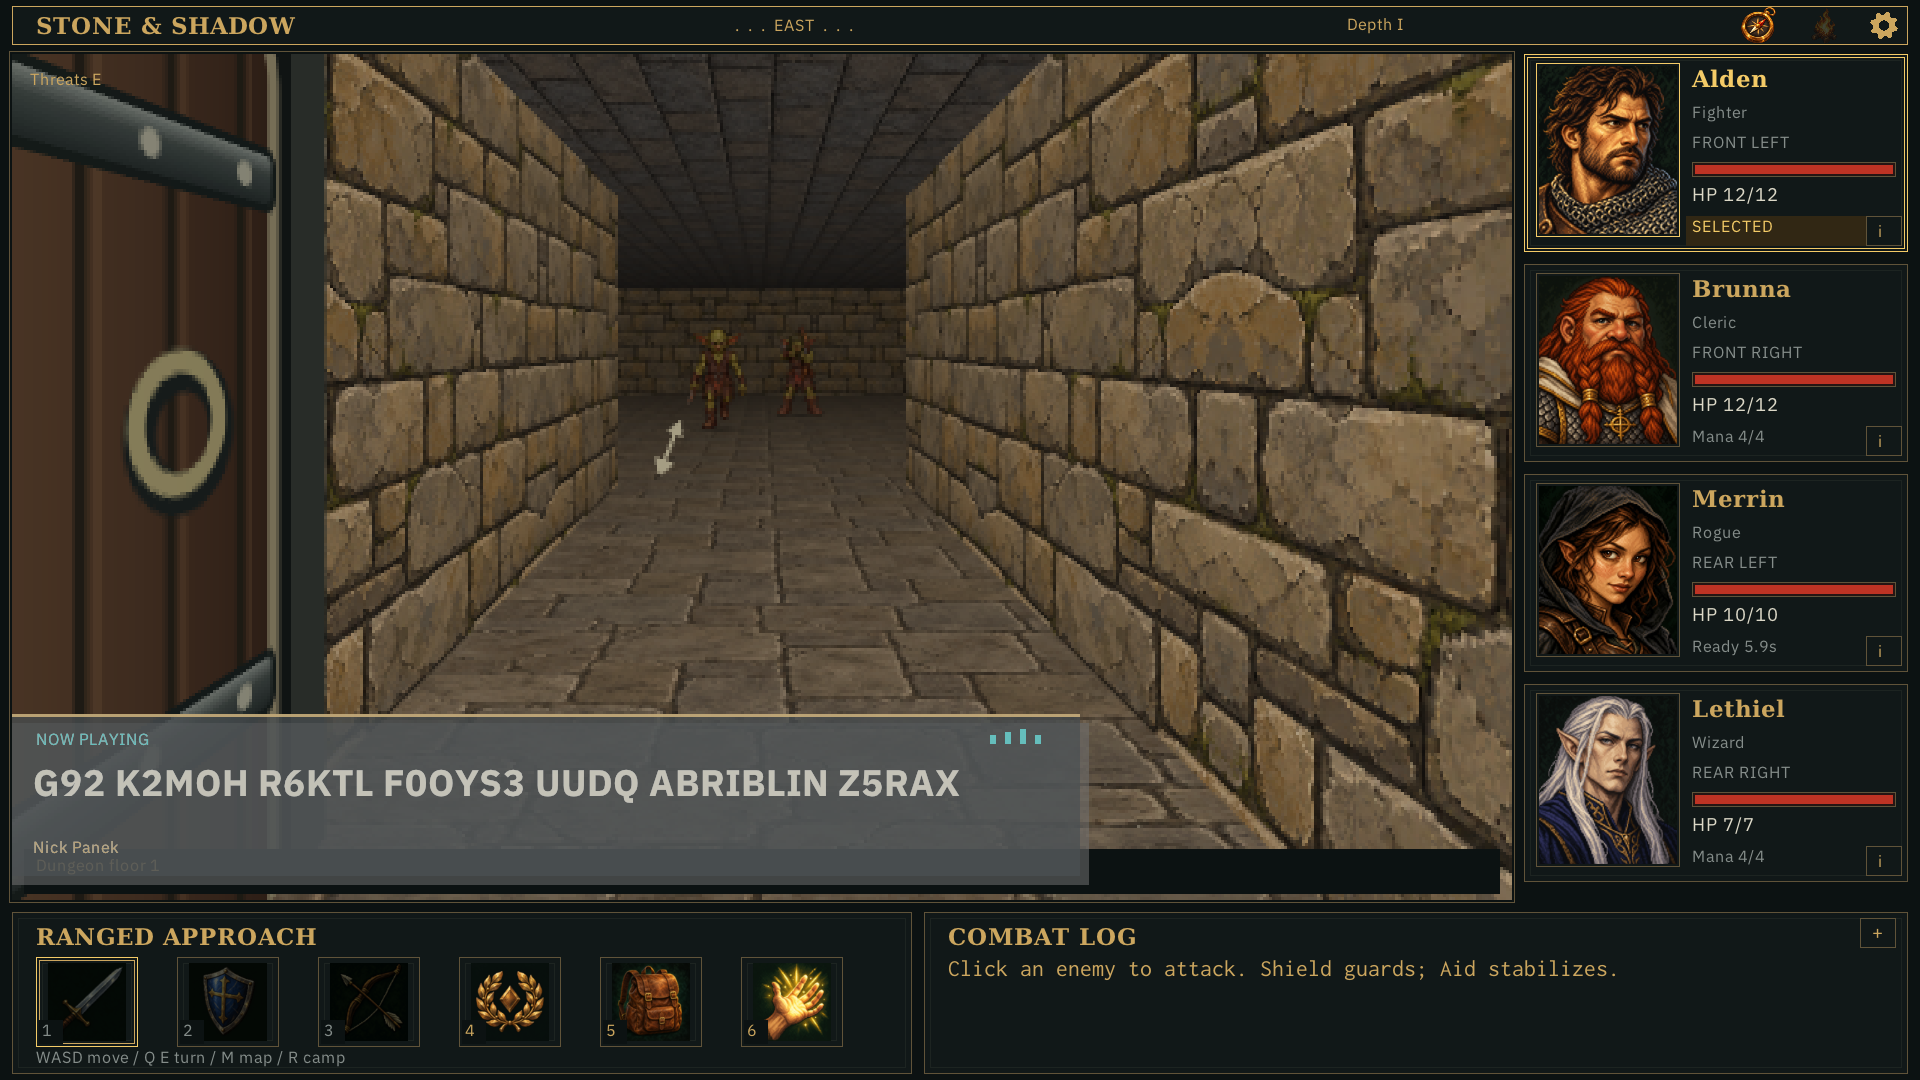
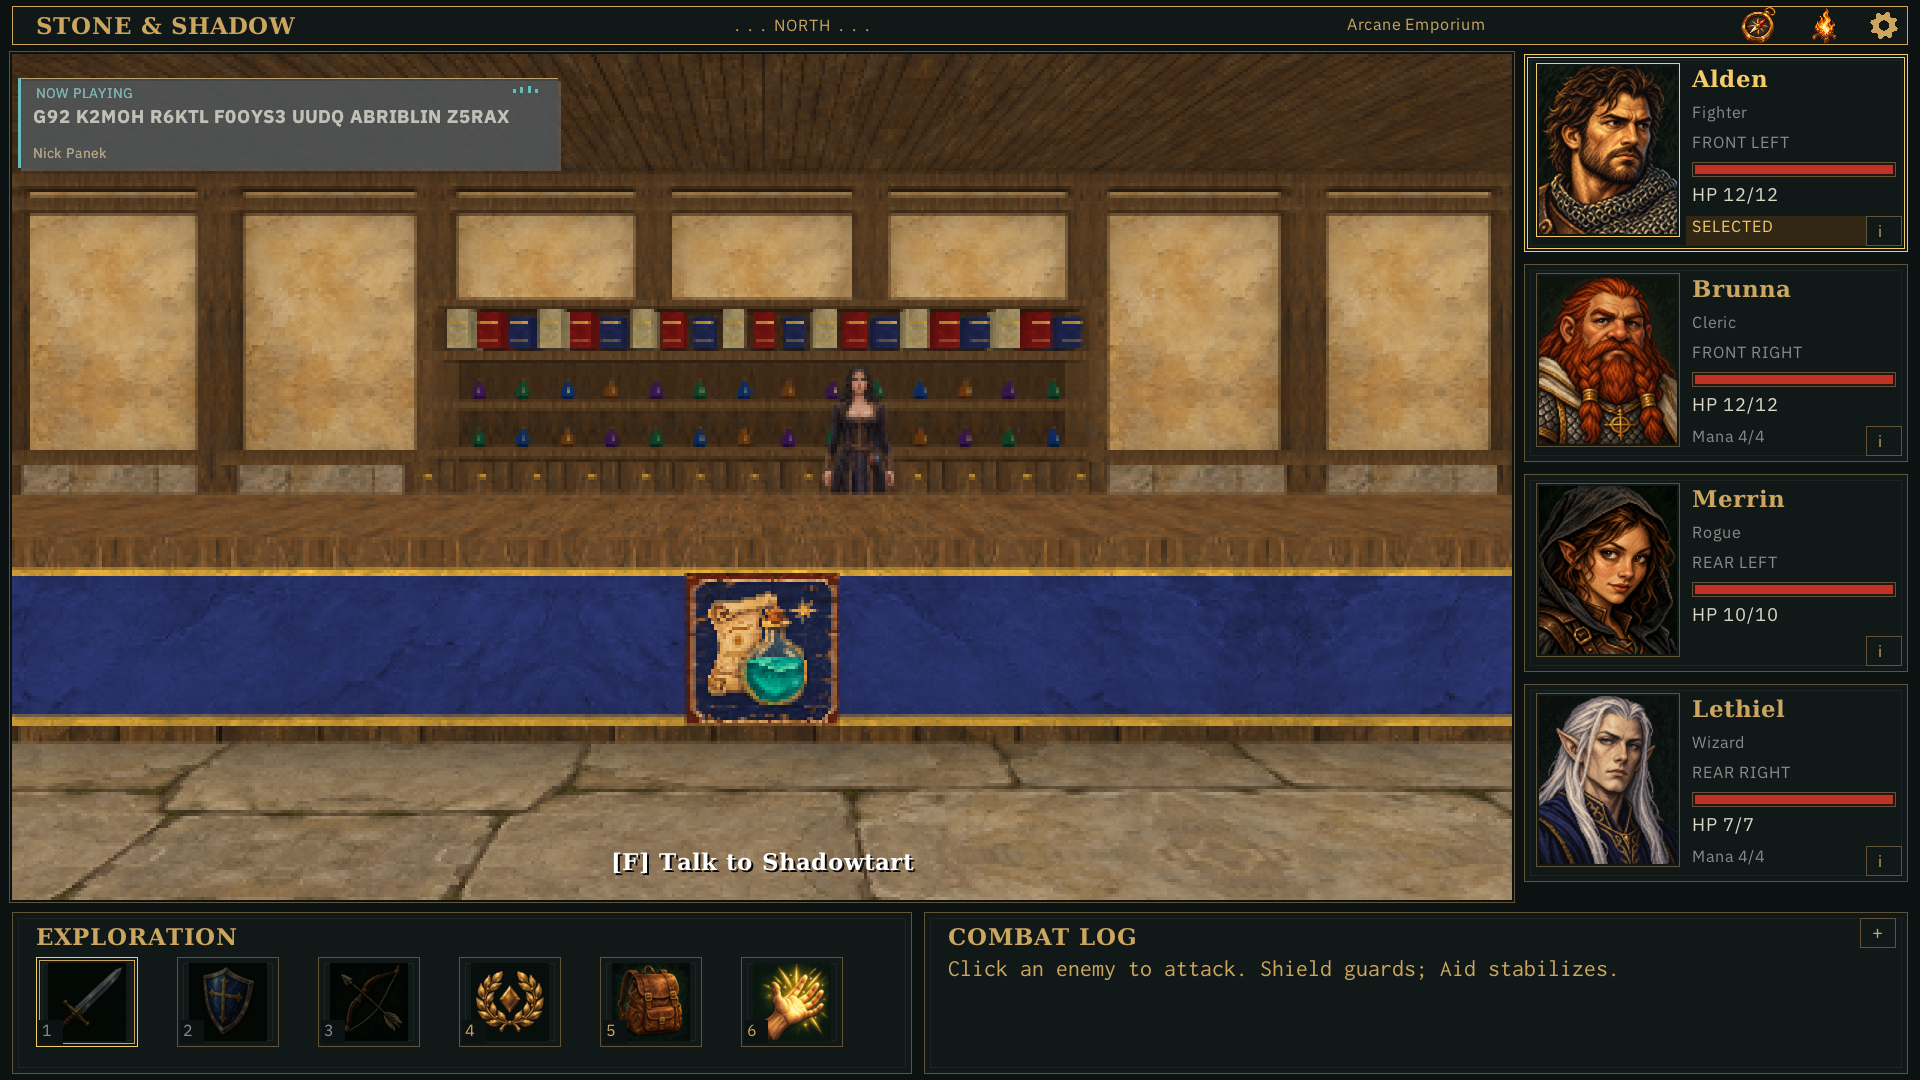
music

diff --git a/src/ui/music_banner.cpp b/src/ui/music_banner.cpp
@@ -8,29 +8,34 @@ void drawMusicBanner(const MusicBanner& banner, const UiFonts& fonts) {
     if (motion.alpha <= 0)
         return;
     const HudPainter p(&fonts, nullptr);
-    const float height = banner.secondLine[0] ? 72.f : 54.f;
-    const float x = 12 + motion.offset, y = 292 - height;
+    constexpr float width = 180, inset = 6, textWidth = 168, edge = 1;
+    const float height = banner.secondLine[0] ? 39.f : 30.f;
+    const float x = viewX + 8 + motion.offset * .5f, y = viewY + 8;
     const auto color = [&](Color c) {
         c.a = static_cast<unsigned char>(c.a * motion.alpha);
         return c;
     };
     BeginScissorMode(viewX * HudPainter::scale, viewY * HudPainter::scale, viewWidth * HudPainter::scale,
                      viewHeight * HudPainter::scale);
-    p.rectangle({x + 3, y + 3, 360, height}, color({0, 0, 0, 130}));
-    p.rectangle({x, y, 360, height}, color({13, 20, 23, 238}));
-    p.rectangle({x, y, 3, height}, color(hudInk::teal));
-    p.rectangle({x + 3, y, 357, 1}, color(hudInk::gold));
-    p.text("NOW PLAYING", x + 12, y + 5, color(hudInk::teal), UiTextStyle::Small);
+    p.rectangle({x + edge, y + edge, width, height}, color({0, 0, 0, 130}));
+    p.rectangle({x, y, width, height}, color({13, 20, 23, 238}));
+    p.rectangle({x, y, edge, height}, color(hudInk::teal));
+    p.rectangle({x + edge, y, width - edge, 1 / HudPainter::scale}, color(hudInk::gold));
+    // Size-specific atlases draw at native size; UiFonts snaps text after motion.
+    p.text("NOW PLAYING", x + inset, y + 2, color(hudInk::teal), UiTextStyle::MusicCaption);
     char first[96], second[96];
     musicBannerLetters(first, banner.title, banner.age, banner.revision);
     musicBannerLetters(second, banner.secondLine, banner.age, banner.revision + 37);
-    p.clipped(first, int(x + 12), y + 15, 335, color(hudInk::text), UiTextStyle::Control);
+    p.clipped(first, int(x + inset), y + 9, int(textWidth), color(hudInk::text), UiTextStyle::MusicTitle);
     if (second[0])
-        p.clipped(second, int(x + 12), y + 32, 335, color(hudInk::text), UiTextStyle::Control);
-    p.clipped(banner.artist, int(x + 12), y + height - 13, 335, color(hudInk::gold), UiTextStyle::Small);
+        p.clipped(second, int(x + inset), y + 18, int(textWidth), color(hudInk::text),
+                  UiTextStyle::MusicTitle);
+    p.clipped(banner.artist, int(x + inset), y + height - 8, int(textWidth), color(hudInk::gold),
+              UiTextStyle::MusicCaption);
     // Small geometric rhythm marks, no flashing or audio-reactive allocations.
     for (unsigned i = 0; i < 4; ++i)
-        p.rectangle({x + 330 + i * 5, y + 7 - float(i % 3), 2, 3 + float(i % 3)}, color(hudInk::teal));
+        p.rectangle({x + (330 + i * 5) * .5f, y + (7 - float(i % 3)) * .5f, 1, (3 + float(i % 3)) * .5f},
+                    color(hudInk::teal));
     EndScissorMode();
 }
 } // namespace blobber

diff --git a/tools/capture_music_banner.cpp b/tools/capture_music_banner.cpp
@@ -13,16 +13,20 @@ int main(int argc, char** argv) {
     const auto target = LoadRenderTexture(1920, 1080);
     const std::filesystem::path output(argv[3]);
     std::filesystem::create_directories(output);
-    const float times[]{.12f, .65f, 2.f, 5.8f, 2.f};
-    const char* names[]{"entry", "reveal", "settled", "exit", "two-lines"};
-    for (unsigned i = 0; i < 5; ++i) {
+    const float times[]{.12f, .65f, 2.f, 5.8f, 2.f, 2.f};
+    const char* names[]{"entry", "reveal", "settled", "exit", "two-lines", "long-title"};
+    for (unsigned i = 0; i < 6; ++i) {
         BeginTextureMode(target);
         ClearBackground(BLACK);
         DrawTexturePro(background, {0, 0, float(background.width), float(background.height)},
                        {0, 0, 1920, 1080}, {0, 0}, 0, WHITE);
-        blobber::drawMusicBanner({i == 4 ? "Epic Hair Metal Synth Rock Instrumental"
-                                         : "SVT Speed Metal Trance With Chiptune Vibes",
-                                  i == 4 ? "High Energy Motivation" : "", "Nick Panek", 7, times[i], true},
+        blobber::drawMusicBanner({i == 5   ? "WWWWWWWWWWWWWWWWWWWWWWWWWWWWWWWWWWWWWWWWWW"
+                                  : i == 4 ? "Epic Hair Metal Synth Rock Instrumental"
+                                           : "SVT Speed Metal Trance With Chiptune Vibes",
+                                  i == 5 ? "A deliberately overlong second line for the title clipping check"
+                                  : i == 4 ? "High Energy Motivation"
+                                           : "",
+                                  "Nick Panek", 7, times[i], true},
                                  fonts);
         EndTextureMode();
         auto image = LoadImageFromTexture(target.texture);

diff --git a/src/ui/fonts.cpp b/src/ui/fonts.cpp
@@ -32,10 +32,13 @@ UiFonts::UiFonts(const std::filesystem::path& directory)
     : label_(directory / "IBMPlexSans-Regular.ttf", 24), small_(directory / "IBMPlexSans-Regular.ttf", 21),
       heading_(directory / "IBMPlexSans-Bold.ttf", 27), log_(directory / "Inconsolata.otf", 24),
       display_(directory / "DejaVuSerif-Bold.ttf", 27), control_(directory / "IBMPlexSans-Bold.ttf", 48),
-      dialogue_(directory / "IBMPlexSans-Regular.ttf", 28) {}
+      dialogue_(directory / "IBMPlexSans-Regular.ttf", 28),
+      musicTitle_(directory / "IBMPlexSans-Bold.ttf", 24),
+      musicCaption_(directory / "IBMPlexSans-Regular.ttf", 18) {}
 std::size_t UiFonts::gpuBytes() const noexcept {
     std::size_t n = 0;
-    for (const auto* f : {&label_, &small_, &heading_, &log_, &display_, &control_, &dialogue_}) {
+    for (const auto* f : {&label_, &small_, &heading_, &log_, &display_, &control_, &dialogue_, &musicTitle_,
+                          &musicCaption_}) {
         auto t = f->value.texture;
         for (int level = 0; level < t.mipmaps; ++level) {
             n += GetPixelDataSize(t.width, t.height, t.format);
@@ -61,6 +64,10 @@ const Font& UiFonts::font(UiTextStyle style) const {
         return heading_.value;
     case UiTextStyle::Log:
         return log_.value;
+    case UiTextStyle::MusicTitle:
+        return musicTitle_.value;
+    case UiTextStyle::MusicCaption:
+        return musicCaption_.value;
     }
     return label_.value;
 }

diff --git a/src/ui/fonts.hpp b/src/ui/fonts.hpp
@@ -3,7 +3,7 @@
 #include <filesystem>
 
 namespace blobber {
-enum class UiTextStyle { Label, Small, Heading, Log, Display, Control, Dialogue };
+enum class UiTextStyle { Label, Small, Heading, Log, Display, Control, Dialogue, MusicTitle, MusicCaption };
 // Fixed, size-specific atlases. Construct with a live window; destroy before it closes.
 // Coordinates/measurements use art units, but glyphs draw at native game-target resolution.
 class UiFonts {
@@ -27,6 +27,6 @@ class UiFonts {
         Font value{};
     };
     const Font& font(UiTextStyle style) const;
-    SizedFont label_, small_, heading_, log_, display_, control_, dialogue_;
+    SizedFont label_, small_, heading_, log_, display_, control_, dialogue_, musicTitle_, musicCaption_;
 };
 } // namespace blobber

diff --git a/src/ui/music_banner.hpp b/src/ui/music_banner.hpp
@@ -3,4 +3,4 @@
 #include "ui/fonts.hpp"
 namespace blobber {
 void drawMusicBanner(const MusicBanner&, const UiFonts&);
-}
+} // namespace blobber

diff --git a/docs/combat_music.md b/docs/combat_music.md
@@ -1,5 +1,44 @@
 # Combat music
 
+## Compact announcement — 2026-11-07
+
+Status: compact typography accepted by the user; requested top-left integration
+implemented and mechanically verified. Replaces the old renderer and preview API.
+Use a fixed 540 × 90 native pixel panel for one title line and 540 × 117 for two,
+24 pixels inside the viewport's top and left edges (native origin 36, 78).
+Keep the accepted internal padding, colors, shadow, six-second animation and
+half-distance horizontal slide. Panel width does not expand: prepared titles split
+into up to two lines and each rendered line uses measured ellipsis clipping within
+its 504-pixel text area, including while letters scramble. Artist text is clipped
+by the same policy; no text may cross the enclosing panel.
+
+UiFonts owns separate IBM Plex Sans bold 24 px and regular 18 px atlases for title
+and caption/artist respectively, loaded at preparation and included in RAII cleanup
+and GPU memory accounting. Draw only at loaded sizes, rounding final native text
+origins after animation/layout. No glyph or render-target scaling, new per-frame
+allocation, prepared-world invalidation or audio transport change. Announcements
+retain existing modal deferral and silence rules; menu music has no announcements.
+
+The capture tool now exercises the production renderer directly, including settled
+one/two-line titles, entry/reveal/exit and deliberately overlong text. Verify hidden
+OpenGL captures at native 1920 × 1080, assert changes stay inside the viewport and
+long text stays within the panel, build the game, and run the focused music check.
+Replace superseded evidence with at most six selected captures. No desktop input
+or focus automation.
+
+Executed verification: rebuilt Debug `blobber`, `blobber_capture_music_banner` and
+`blobber_music_tests` with at most two low-priority workers and no compiler warnings.
+`nice -n 15 ionice -c 3 ctest --preset debug -R '^music$'` passes in 0.01 s.
+The hidden production-renderer capture succeeds outside the X11-restricted sandbox,
+without OS input or focus control. Inspected settled and overlong two-line captures;
+all six animation/title cases remain within the viewport, with settled origin
+(36, 78), expected panel/shadow bounds and no bright title pixels outside the panel.
+Fonts retain the accepted size-specific atlases and integer draw origins. No audio
+runtime suite or additional build configuration was repeated for this UI-only edit.
+Six selected captures replace superseded evidence in the existing gallery;
+disposable run output was cleaned. `git diff --check` and formatting checks pass.
+Interactive game/listening review was not performed.
+
 ## Sanctuary and menu extension — 2026-11-07
 
 Status: implemented and mechanically verified; listening/interactive review pending.
@@ -140,7 +179,7 @@ remains listening review.
 
 ## Announcement
 
-A six-second charcoal lower-left viewport panel slides in with a small overshoot,
+A six-second charcoal top-left viewport panel slides in with a small overshoot,
 uses teal/gold accents and deterministic scrambling letters that settle by 1.2s,
 holds through 5.5s then retracts. It announces every started track, never resumes.
 Tactical overlays defer the current unfinished announcement; only the latest is
@@ -190,9 +229,10 @@ shared limiter, unloads music/ambience streams and aliases/sources, then closes 
 device. Only the selected track is decoded during gameplay; raylib/decoder internals
 and their file reads are outside the engine-owned C++ allocation guarantee.
 
-The panel anchors to the lower-left viewport with a 360-art-unit width and 54/72-unit
-height for one/two title lines. Titles are split during preparation. Large bold
-native text, a teal edge and a gold rule provide readable visual hierarchy; a
+The panel anchors 8 art units inside the top-left viewport with a 180-art-unit
+width and 30/39-unit height for one/two title lines. Titles split during preparation
+and clip with ellipses to the measured text width. Native 24 px bold title and
+18 px regular caption atlases, a teal edge and a gold rule provide visual hierarchy; a
 12-Hz deterministic character scramble settles by 1.2 seconds. Its slide/overshoot,
 hold and sideways exit run for six seconds of visible, unpaused presentation time.
 

diff --git a/docs/screenshots/combat-music/README.md b/docs/screenshots/combat-music/README.md
@@ -1,13 +1,22 @@
-# Combat music UI checks
+# Compact music announcement — 2026-11-07
 
-Curated on 2026-11-05 from existing evidence; no new capture or test run.
-Historical acceptance and verification limitations remain in the linked documentation.
+**Compact typography accepted by the user; requested top-left integration
+implemented and mechanically verified.** The game now uses this layout, with
+24 px bold title and 18 px regular caption/artist atlases drawn at loaded size
+and whole native pixel positions. The panel sits 24 pixels inside the viewport's
+top and left edges, preserving the approved internal padding and six-second
+timing. Width stays fixed; long lines clip with measured ellipses.
 
-Superseded captures, raw logs, generated galleries and machine reports were removed.
+- [Settled announcement](compact-preview.png): 540 × 90 px one-line panel.
+- [Two-line announcement](compact-two-lines.png): 540 × 117 px panel.
+- [Long-title clipping](long-title.png): wide glyphs and an overlong second line
+  remain within the panel, with ellipses.
+- [Entry](entry.png), [scramble/reveal](reveal.png), [exit](exit.png).
 
-- [entry](entry.png)
-- [exit](exit.png)
-- [reveal](reveal.png)
-- [settings](settings.png)
-- [settled](settled.png)
-- [two lines](two-lines.png)
+These six 1920 × 1080 captures use the production renderer and prepared fonts in
+an application-owned hidden OpenGL window over the existing
+[emporium capture](../shadowtart/front.png). They verify UI rendering, not a new
+gameplay/listening session. No desktop input, focus or window manipulation was
+used. Pixel comparison confirms top-left placement, viewport bounds and long-title
+containment. Superseded bottom-left previews, old-size references and obsolete
+settings evidence were pruned; this cleanup does not change historical acceptance.

diff --git a/AGENTS.md b/AGENTS.md
@@ -109,6 +109,19 @@ unnecessarily; follow the execution environment's permission rules when needed.
   rectangles, circles or other primitives for generated icon artwork. Drawing
   supplied/generated icon textures through the normal UI pipeline is appropriate.
 
+## Font rendering
+
+- Raylib fonts are rasterized glyph atlases, not a realtime TTF renderer. Draw
+  each font only at the exact pixel size at which its atlas was loaded.
+- If text needs another size, load another atlas at that size, even when using
+  the same font file. Do not create a different text size through a different
+  draw font size, transform matrix, render-target scaling or other glyph scaling.
+- Prepare the required size-specific atlases outside frame processing and include
+  them in font ownership, GPU memory accounting and resource cleanup.
+- Never render text at fractional coordinates. Round final native game-framebuffer
+  glyph positions to whole pixels after layout and animation offsets; do not
+  introduce fractional positions through a subsequent drawing transform.
+
 ## Desktop verification restriction
 
 - Do not control the user's mouse or keyboard, switch window focus or desktops,

diff --git a/docs/system_design.md b/docs/system_design.md
@@ -1,5 +1,12 @@
 # System design
 
+[Compact music announcement](combat_music.md#compact-announcement--2026-11-07):
+**typography accepted; top-left integration implemented and mechanically verified**. Fixed-width
+compact panel with native 24 px bold/18 px regular atlases, integer text origins
+and measured ellipsis clipping. Retains animation, padding and modal rules while
+moving 24 pixels inside the top-left viewport. Game build, focused music check and
+[six hidden captures](screenshots/combat-music/README.md) pass. No audio transport changes.
+
 [Sanctuary and menu music](combat_music.md#sanctuary-and-menu-extension--2026-11-07):
 **implemented and mechanically verified; listening review pending**. Shared prepared
 playback provides a continuous town/interior shuffle and one-shot menu song,
